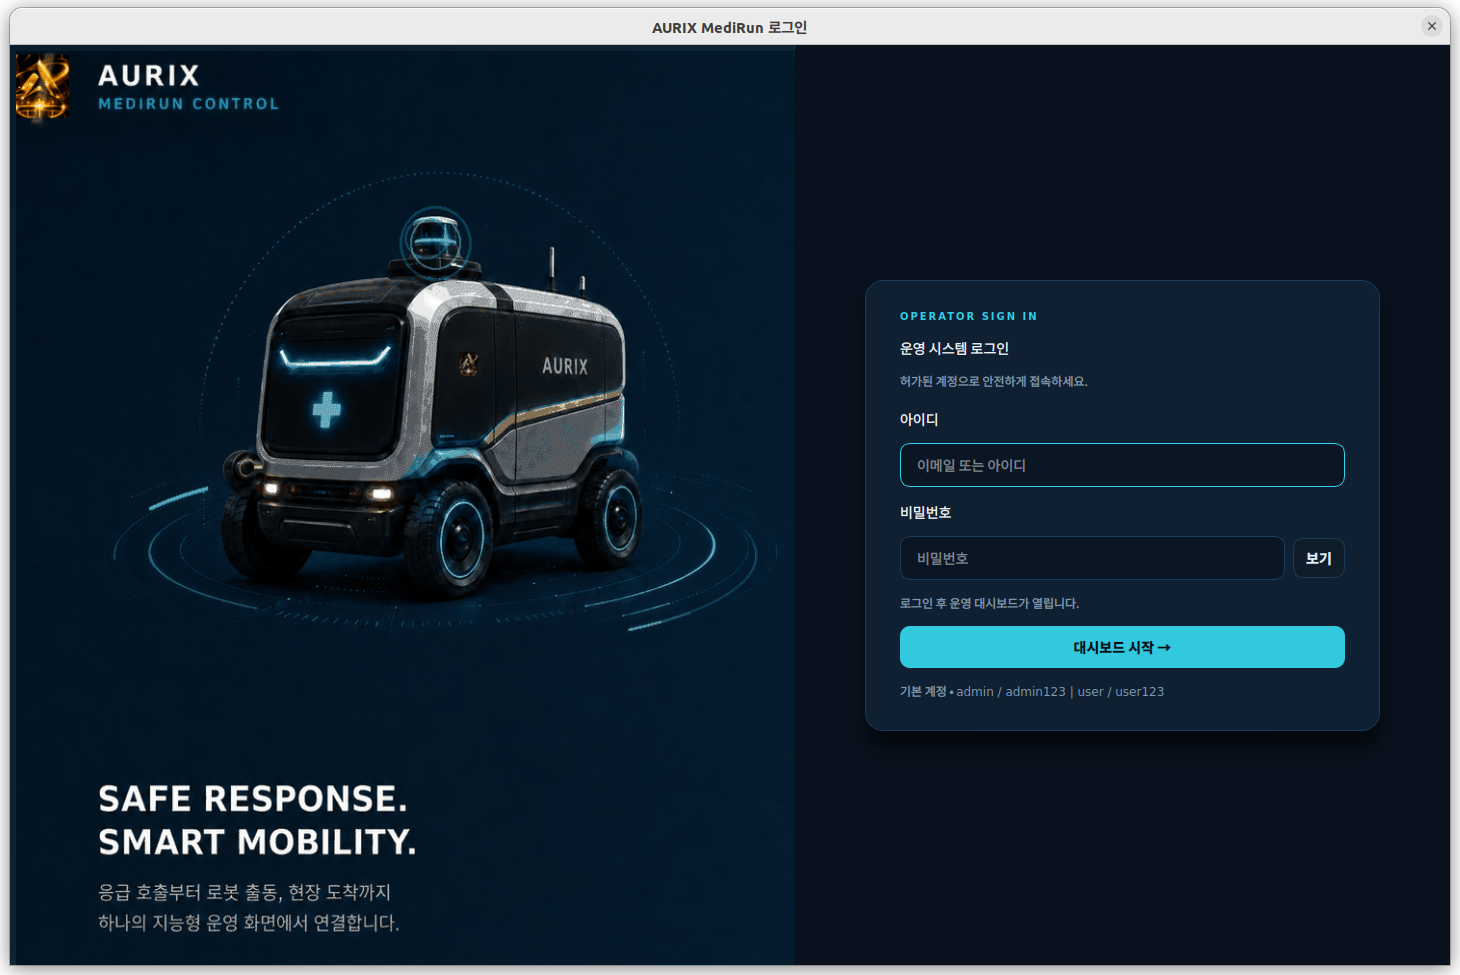
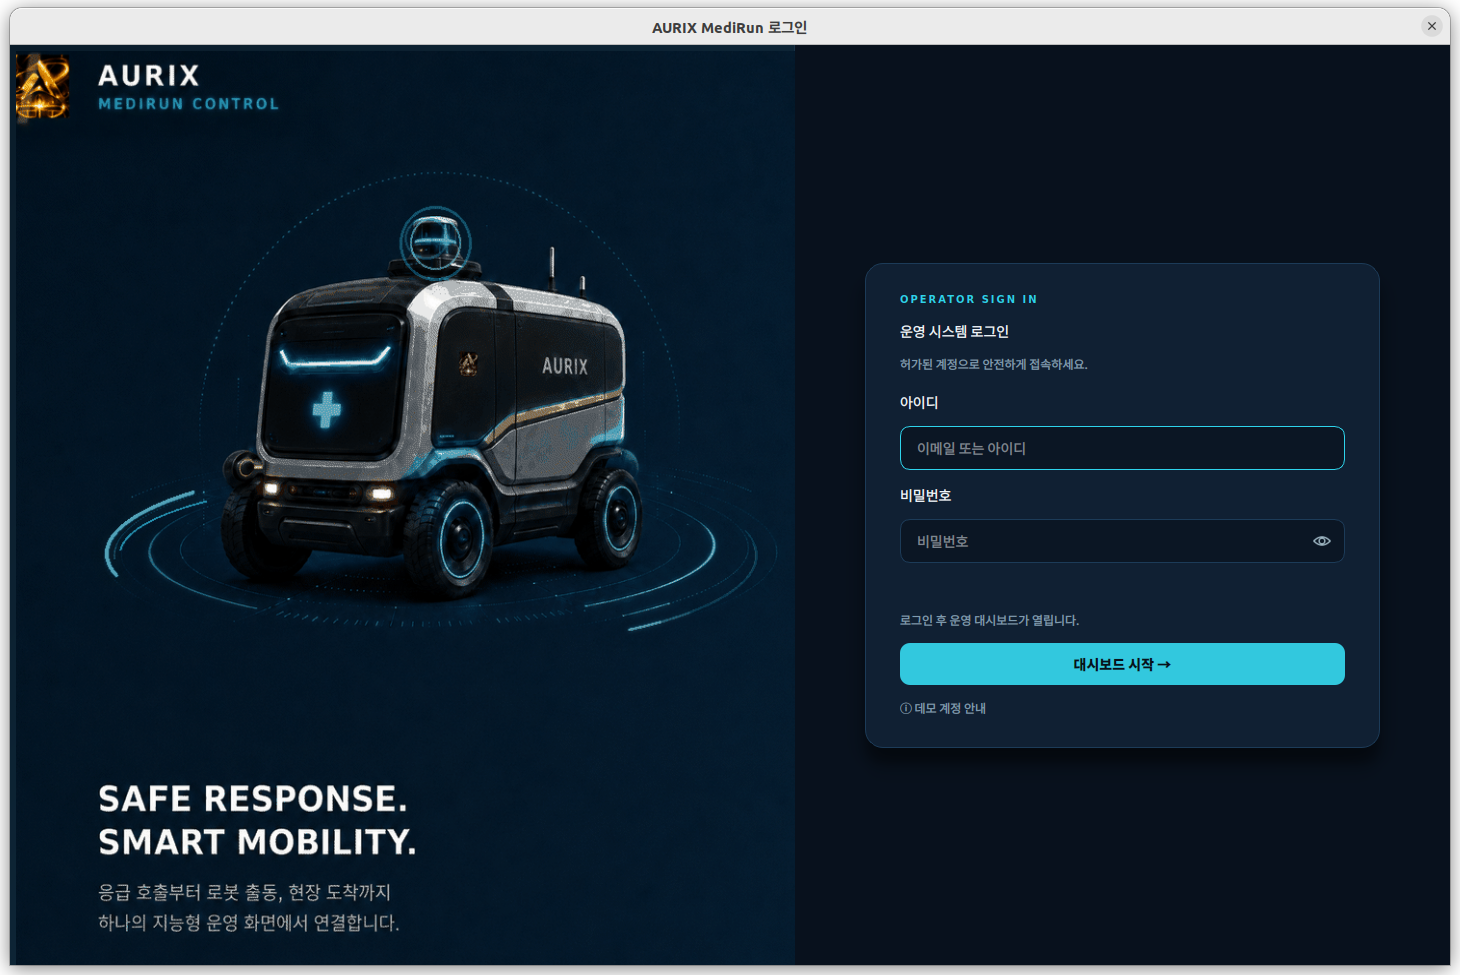
feat(gui): 로그인 화면 비밀번호 아이콘 확대 및 데모 계정 안내 폴백 추가

diff --git a/docs/dashboard_wireframe/v1/aurix_login.html b/docs/dashboard_wireframe/v1/aurix_login.html
@@ -1,0 +1,61 @@
+<div style="background: var(--surface-1); border-radius: 12px; padding: 16px;">
+<h2 class="sr-only" style="position:absolute;width:1px;height:1px;overflow:hidden;clip:rect(0 0 0 0)">하단 연결 상태·버전 표시를 제거한 AURIX MediRun 로그인 화면 목업</h2>
+
+<div style="background:#071018; border-radius:8px; overflow:hidden; border:0.5px solid #16303f">
+
+  <div style="background:#0b1a24; padding:7px 12px; display:flex; align-items:center; justify-content:space-between; border-bottom:0.5px solid #16303f">
+    <span style="font-size:11px; color:#7c99a8">AURIX MediRun Control</span>
+    <span style="display:flex; gap:8px; color:#5c7686; font-size:12px"><i class="ti ti-minus" aria-hidden="true"></i><i class="ti ti-square" aria-hidden="true"></i><i class="ti ti-x" aria-hidden="true"></i></span>
+  </div>
+
+  <div style="display:grid; grid-template-columns:minmax(0,1fr) minmax(0,1.05fr)">
+
+    <div style="padding:18px 16px; display:flex; flex-direction:column; justify-content:space-between; border-right:0.5px solid #16303f; min-height:290px">
+      <div>
+        <div style="font-size:15px; color:#e8f4f8; letter-spacing:3px">AURIX</div>
+        <div style="font-size:10px; color:#3fc8dd; letter-spacing:2px; margin-top:2px">MEDIRUN CONTROL</div>
+      </div>
+      <div style="text-align:center; color:#1d4c60; font-size:11px; padding:20px 0">
+        <i class="ti ti-robot" style="font-size:38px" aria-hidden="true"></i>
+        <div style="margin-top:6px">히어로 이미지<br>(폭 &lt; 900px 시 숨김)</div>
+      </div>
+      <div>
+        <div style="font-size:15px; color:#e8f4f8; line-height:1.35">SAFE RESPONSE.<br>SMART MOBILITY.</div>
+        <div style="font-size:11px; color:#6d8b9b; margin-top:6px; line-height:1.5">응급 호출부터 로봇 출동, 현장 도착까지<br>하나의 지능형 운영 화면에서 연결합니다.</div>
+      </div>
+    </div>
+
+    <div style="padding:18px 20px; display:flex; align-items:center">
+      <div style="background:#0c1d29; border:0.5px solid #1c3d4e; border-radius:12px; padding:16px; width:100%">
+
+        <div style="font-size:10px; color:#3fc8dd; letter-spacing:1.5px">OPERATOR SIGN IN</div>
+        <div style="font-size:14px; color:#e8f4f8; margin-top:6px">운영 시스템 로그인</div>
+        <div style="font-size:11px; color:#6d8b9b; margin-top:3px">허가된 계정으로 안전하게 접속하세요.</div>
+
+        <div style="font-size:11px; color:#a8c2ce; margin:12px 0 4px">아이디</div>
+        <div style="background:#081620; border:0.5px solid #3fc8dd; border-radius:6px; padding:7px 9px; font-size:12px; color:#e8f4f8; box-shadow:0 0 0 2px rgba(63,200,221,0.12)">admin_lee<span style="color:#3fc8dd">|</span></div>
+
+        <div style="font-size:11px; color:#a8c2ce; margin:10px 0 4px">비밀번호</div>
+        <div style="background:#081620; border:0.5px solid #1c3d4e; border-radius:6px; padding:7px 9px; display:flex; align-items:center; justify-content:space-between">
+          <span style="font-size:12px; color:#e8f4f8; letter-spacing:2px">••••••••</span>
+          <i class="ti ti-eye" style="font-size:15px; color:#6d8b9b" aria-label="비밀번호 보기"></i>
+        </div>
+
+        <div style="min-height:26px; display:flex; align-items:center; gap:5px; margin-top:6px">
+          <i class="ti ti-alert-circle" style="font-size:13px; color:#e05a5a" aria-hidden="true"></i>
+          <span style="font-size:11px; color:#e05a5a">아이디 또는 비밀번호가 올바르지 않습니다. (2/5)</span>
+        </div>
+
+        <div style="background:#3fc8dd; border-radius:6px; padding:9px; text-align:center; font-size:12px; color:#062430; margin-top:2px">
+          <i class="ti ti-loader-2" style="font-size:13px; vertical-align:-2px; margin-right:5px" aria-hidden="true"></i>확인 중…
+        </div>
+
+        <div style="font-size:10px; color:#4f6f7f; margin-top:12px">
+          <i class="ti ti-info-circle" style="font-size:12px; vertical-align:-2px; margin-right:3px" aria-hidden="true"></i>데모 계정 안내 (디버그 빌드 전용)
+        </div>
+
+      </div>
+    </div>
+  </div>
+</div>
+</div>

diff --git a/src/medirun_gui/src/dialogs/logindialog.cpp b/src/medirun_gui/src/dialogs/logindialog.cpp
@@ -2,6 +2,8 @@
 
 #include "../services/authservice.h"
 
+#include <QDebug>
+#include <QEvent>
 #include <QFile>
 #include <QFrame>
 #include <QGraphicsDropShadowEffect>
@@ -9,10 +11,13 @@
 #include <QLabel>
 #include <QLineEdit>
 #include <QMovie>
+#include <QPainter>
+#include <QPainterPath>
 #include <QPropertyAnimation>
 #include <QPushButton>
 #include <QPixmap>
 #include <QTimer>
+#include <QToolButton>
 #include <QVBoxLayout>
 
 namespace {
@@ -60,6 +65,34 @@ QLabel *createPreviewPanelImageLabel(QWidget *parent, const QSize &targetSize)
     movie->start();
     return label;
 }
+
+QIcon createEyeIcon(bool crossed)
+{
+    const QColor strokeColor(QStringLiteral("#9fb7c4"));
+
+    const int size = 32;
+    QPixmap pixmap(size, size);
+    pixmap.fill(Qt::transparent);
+
+    QPainter painter(&pixmap);
+    painter.setRenderHint(QPainter::Antialiasing);
+    painter.setPen(QPen(strokeColor, 2.1));
+    painter.setBrush(Qt::NoBrush);
+
+    QPainterPath eyePath;
+    eyePath.moveTo(4, 16);
+    eyePath.quadTo(16, 4, 28, 16);
+    eyePath.quadTo(16, 28, 4, 16);
+    painter.drawPath(eyePath);
+    painter.drawEllipse(QPointF(16, 16), 4.2, 4.2);
+
+    if (crossed) {
+        painter.drawLine(QPointF(5, 5), QPointF(27, 27));
+    }
+
+    painter.end();
+    return QIcon(pixmap);
+}
 }
 
 LoginDialog::LoginDialog(AuthService &authService, bool mockMode, QWidget *parent)
@@ -68,8 +101,11 @@ LoginDialog::LoginDialog(AuthService &authService, bool mockMode, QWidget *paren
     , m_usernameEdit(nullptr)
     , m_passwordEdit(nullptr)
     , m_statusLabel(nullptr)
-    , m_togglePasswordButton(nullptr)
+    , m_errorLabel(nullptr)
+    , m_passwordVisibilityButton(nullptr)
+    , m_loginButton(nullptr)
     , m_loginCard(nullptr)
+    , m_failedAttempts(0)
 {
     buildUi(mockMode);
 }
@@ -81,6 +117,9 @@ AppSession LoginDialog::session() const
 
 void LoginDialog::attemptLogin()
 {
+    m_errorLabel->clear();
+    setFormBusy(true);
+
     QString errorMessage;
     AppSession session;
     const bool ok = m_authService.authenticate(
@@ -91,12 +130,30 @@ void LoginDialog::attemptLogin()
         errorMessage);
 
     if (!ok) {
-        m_statusLabel->setText(errorMessage);
+        ++m_failedAttempts;
+        qWarning().noquote() << QStringLiteral("[auth] 로그인 실패 (%1/%2회) · 계정: %3")
+                                     .arg(m_failedAttempts)
+                                     .arg(kMaxLoginAttempts)
+                                     .arg(m_usernameEdit->text().trimmed());
+        m_errorLabel->setText(QStringLiteral("⚠ %1 (%2/%3)")
+                                   .arg(errorMessage)
+                                   .arg(m_failedAttempts)
+                                   .arg(kMaxLoginAttempts));
+        setFormBusy(false);
         return;
     }
 
     m_session = session;
     accept();
+}
+
+void LoginDialog::setFormBusy(bool busy)
+{
+    m_usernameEdit->setEnabled(!busy);
+    m_passwordEdit->setEnabled(!busy);
+    m_passwordVisibilityButton->setEnabled(!busy);
+    m_loginButton->setEnabled(!busy);
+    m_loginButton->setText(busy ? QStringLiteral("확인 중…") : QStringLiteral("대시보드 시작 →"));
 }
 
 void LoginDialog::fillStaffCredentials()
@@ -117,7 +174,23 @@ void LoginDialog::togglePasswordVisibility()
 {
     const bool hidden = m_passwordEdit->echoMode() == QLineEdit::Password;
     m_passwordEdit->setEchoMode(hidden ? QLineEdit::Normal : QLineEdit::Password);
-    m_togglePasswordButton->setText(hidden ? QStringLiteral("숨기기") : QStringLiteral("보기"));
+    m_passwordVisibilityButton->setIcon(createEyeIcon(hidden));
+    m_passwordVisibilityButton->setToolTip(hidden ? QStringLiteral("비밀번호 숨기기") : QStringLiteral("비밀번호 보기"));
+}
+
+bool LoginDialog::eventFilter(QObject *watched, QEvent *event)
+{
+    if (watched == m_passwordEdit && event->type() == QEvent::Resize) {
+        repositionPasswordVisibilityButton();
+    }
+    return QDialog::eventFilter(watched, event);
+}
+
+void LoginDialog::repositionPasswordVisibilityButton()
+{
+    const int x = m_passwordEdit->width() - m_passwordVisibilityButton->width() - 8;
+    const int y = (m_passwordEdit->height() - m_passwordVisibilityButton->height()) / 2;
+    m_passwordVisibilityButton->move(x, y);
 }
 
 void LoginDialog::buildUi(bool mockMode)
@@ -181,20 +254,27 @@ void LoginDialog::buildUi(bool mockMode)
     passwordLabel->setObjectName(QStringLiteral("fieldLabel"));
     cardLayout->addWidget(passwordLabel);
 
-    auto *passwordRow = new QWidget(m_loginCard);
-    auto *passwordLayout = new QHBoxLayout(passwordRow);
-    passwordLayout->setContentsMargins(0, 0, 0, 0);
-    passwordLayout->setSpacing(8);
-
-    m_passwordEdit = new QLineEdit(passwordRow);
+    m_passwordEdit = new QLineEdit(m_loginCard);
     m_passwordEdit->setPlaceholderText(QStringLiteral("비밀번호"));
     m_passwordEdit->setEchoMode(QLineEdit::Password);
-    passwordLayout->addWidget(m_passwordEdit, 1);
+    m_passwordEdit->setTextMargins(0, 0, 34, 0);
+    cardLayout->addWidget(m_passwordEdit);
 
-    m_togglePasswordButton = new QPushButton(QStringLiteral("보기"), passwordRow);
-    m_togglePasswordButton->setObjectName(QStringLiteral("inlineGhostButton"));
-    passwordLayout->addWidget(m_togglePasswordButton);
-    cardLayout->addWidget(passwordRow);
+    m_passwordVisibilityButton = new QToolButton(m_passwordEdit);
+    m_passwordVisibilityButton->setObjectName(QStringLiteral("passwordVisibilityButton"));
+    m_passwordVisibilityButton->setCursor(Qt::PointingHandCursor);
+    m_passwordVisibilityButton->setFocusPolicy(Qt::NoFocus);
+    m_passwordVisibilityButton->setFixedSize(30, 30);
+    m_passwordVisibilityButton->setIconSize(QSize(22, 22));
+    m_passwordVisibilityButton->setIcon(createEyeIcon(false));
+    m_passwordVisibilityButton->setToolTip(QStringLiteral("비밀번호 보기"));
+    m_passwordEdit->installEventFilter(this);
+
+    m_errorLabel = new QLabel(m_loginCard);
+    m_errorLabel->setObjectName(QStringLiteral("loginErrorLabel"));
+    m_errorLabel->setWordWrap(true);
+    m_errorLabel->setFixedHeight(20);
+    cardLayout->addWidget(m_errorLabel);
 
     if (mockMode) {
         auto *mockButtons = new QHBoxLayout();
@@ -214,11 +294,19 @@ void LoginDialog::buildUi(bool mockMode)
     m_statusLabel->setWordWrap(true);
     cardLayout->addWidget(m_statusLabel);
 
-    auto *loginButton = new QPushButton(QStringLiteral("대시보드 시작 →"), m_loginCard);
-    loginButton->setObjectName(QStringLiteral("primaryCtaButton"));
-    cardLayout->addWidget(loginButton);
-    auto *demoLabel = new QLabel(QStringLiteral("기본 계정 • admin / admin123 | user / user123"), m_loginCard);
+    m_loginButton = new QPushButton(QStringLiteral("대시보드 시작 →"), m_loginCard);
+    m_loginButton->setObjectName(QStringLiteral("primaryCtaButton"));
+    m_loginButton->setDefault(true);
+    cardLayout->addWidget(m_loginButton);
+
+#ifdef QT_DEBUG
+    auto *demoLabel = new QLabel(QStringLiteral("ⓘ 데모 계정 안내 (디버그 빌드 전용)"), m_loginCard);
+#else
+    // 릴리스 빌드에서는 계정 정보를 평문으로 노출하지 않고 아이콘 + 툴팁으로 접어서 보여준다.
+    auto *demoLabel = new QLabel(QStringLiteral("ⓘ 데모 계정 안내"), m_loginCard);
+#endif
     demoLabel->setObjectName(QStringLiteral("demoHint"));
+    demoLabel->setToolTip(QStringLiteral("admin / admin123  ·  user / user123"));
     cardLayout->addWidget(demoLabel);
 
     formAreaLayout->addWidget(m_loginCard);
@@ -227,10 +315,12 @@ void LoginDialog::buildUi(bool mockMode)
     rootLayout->addWidget(visual, 12);
     rootLayout->addWidget(formArea, 10);
 
-    connect(loginButton, &QPushButton::clicked, this, &LoginDialog::attemptLogin);
-    connect(m_usernameEdit, &QLineEdit::returnPressed, this, &LoginDialog::attemptLogin);
-    connect(m_passwordEdit, &QLineEdit::returnPressed, this, &LoginDialog::attemptLogin);
-    connect(m_togglePasswordButton, &QPushButton::clicked, this, &LoginDialog::togglePasswordVisibility);
+    // m_loginButton is the dialog's default button (setDefault(true) above), so
+    // Return/Enter in either field already triggers it — no separate
+    // returnPressed wiring needed (that would double-submit each attempt).
+    connect(m_loginButton, &QPushButton::clicked, this, &LoginDialog::attemptLogin);
+    connect(m_passwordVisibilityButton, &QToolButton::clicked, this, &LoginDialog::togglePasswordVisibility);
+    repositionPasswordVisibilityButton();
     QTimer::singleShot(60, this, [this]() {
         const QPoint origin = m_loginCard->pos();
         m_loginCard->move(origin + QPoint(0, 22));

diff --git a/src/medirun_gui/src/dialogs/logindialog.h b/src/medirun_gui/src/dialogs/logindialog.h
@@ -10,6 +10,7 @@ class QFrame;
 class QLineEdit;
 class QLabel;
 class QPushButton;
+class QToolButton;
 
 class LoginDialog : public QDialog
 {
@@ -26,17 +27,27 @@ private slots:
     void fillAdminCredentials();
     void togglePasswordVisibility();
 
+protected:
+    bool eventFilter(QObject *watched, QEvent *event) override;
+
 private:
     void buildUi(bool mockMode);
     UserRole selectedRole() const;
+    void setFormBusy(bool busy);
+    void repositionPasswordVisibilityButton();
+
+    static constexpr int kMaxLoginAttempts = 5;
 
     AuthService &m_authService;
     AppSession m_session;
     QLineEdit *m_usernameEdit;
     QLineEdit *m_passwordEdit;
     QLabel *m_statusLabel;
-    QPushButton *m_togglePasswordButton;
+    QLabel *m_errorLabel;
+    QToolButton *m_passwordVisibilityButton;
+    QPushButton *m_loginButton;
     QFrame *m_loginCard;
+    int m_failedAttempts;
 };
 
 #endif // LOGINDIALOG_H
